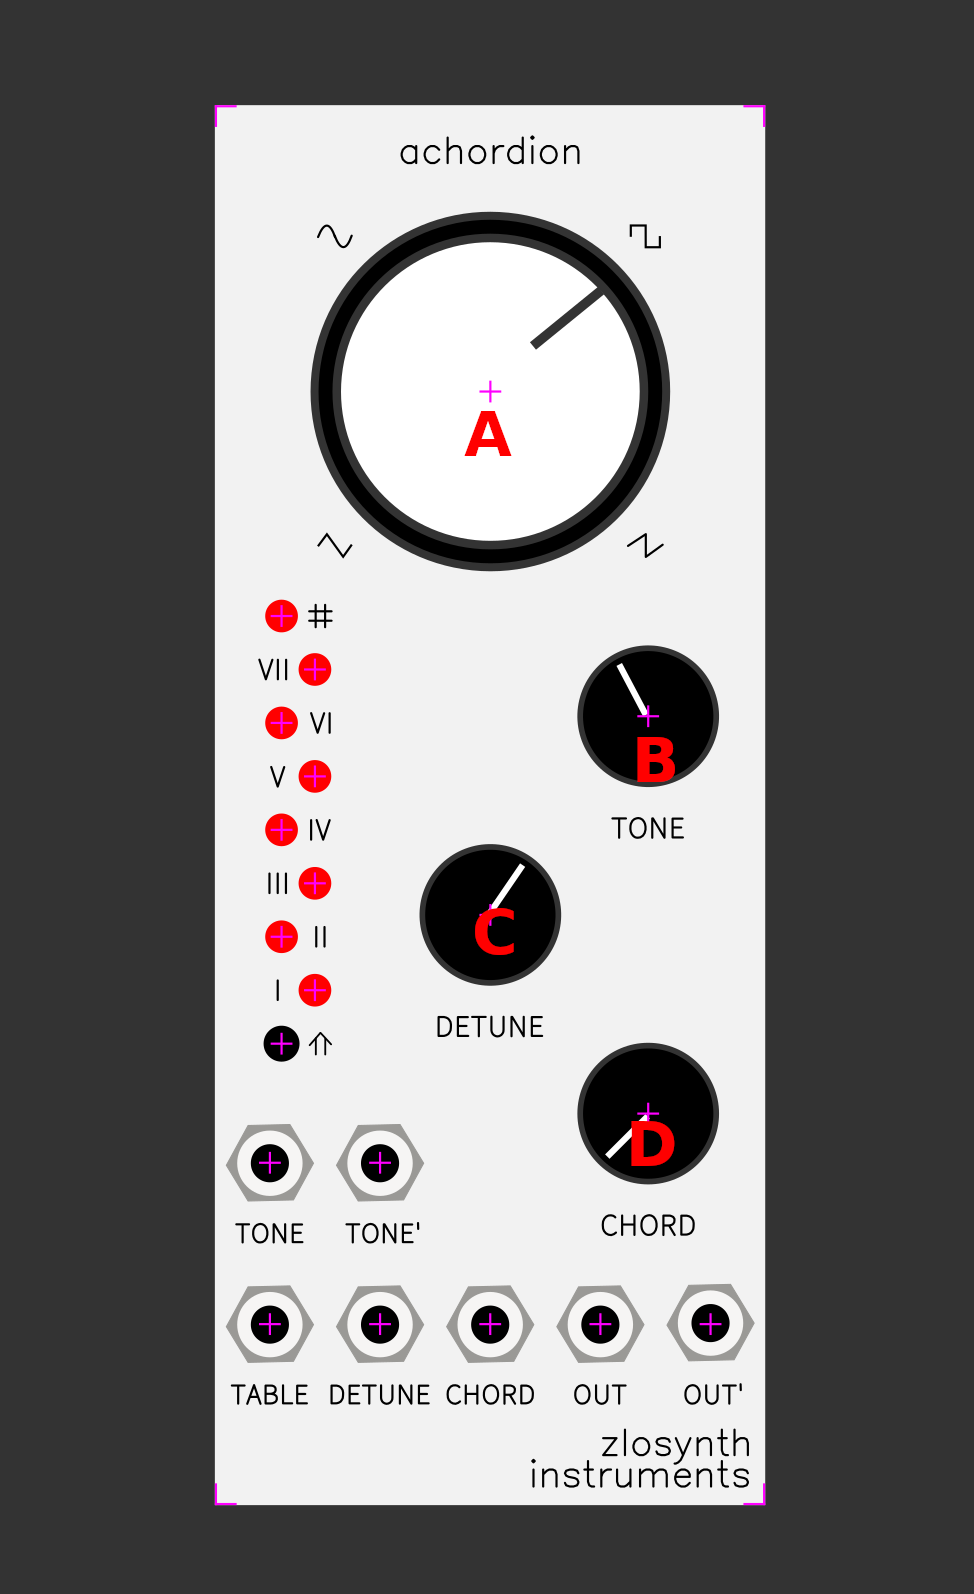
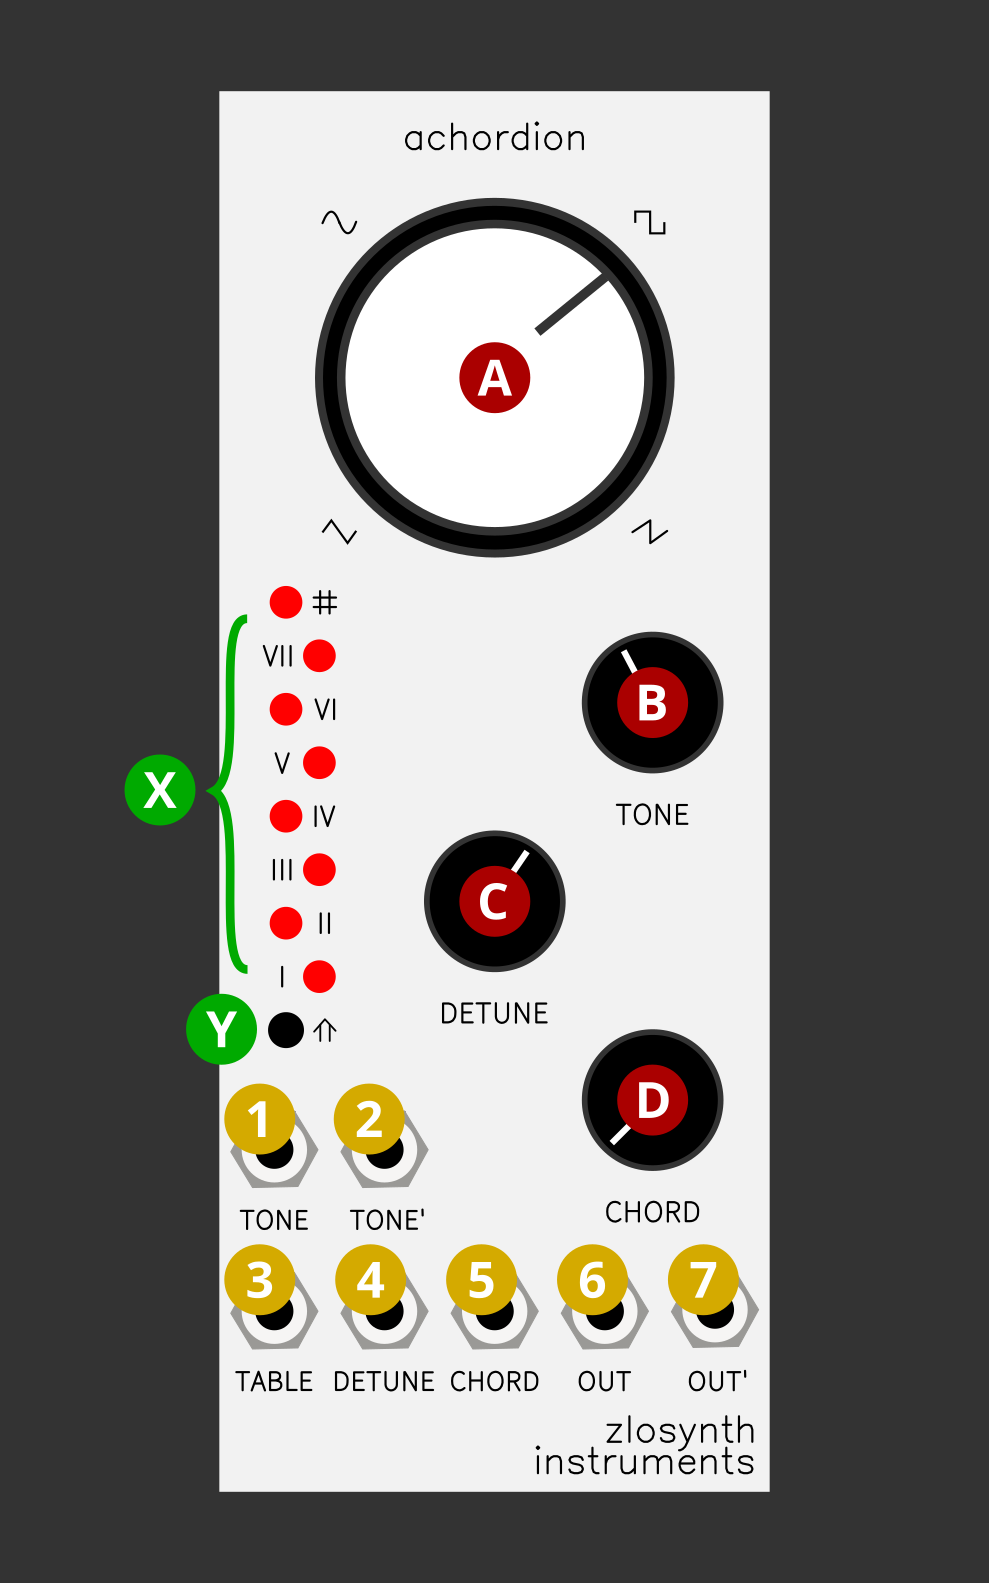
Document the layout

diff --git a/v2/index.html b/v2/index.html
@@ -111,7 +111,35 @@
       <div class="row">
         <div class="left">
           <img src="layout.png" style="width: 100%; border-radius: 10px; margin-top: 30px;">
+        </div>
 
+        <div class="right">
+          <h2>layout</h2>
+          <p>
+            The panel is dominated by a big knob which is used to select
+            the <b>WAVETABLE</b>&nbsp;(<b>A</b>). The other three knobs are used to
+            control the <b>TONE</b>&nbsp;(<b>B</b>), <b>DETUNE</b>&nbsp;(<b>C</b>)
+            and <b>CHORD</b>&nbsp;(<b>D</b>).
+          </p>
+          <p>
+            On the left side, there is a column of <b>LED diodes</b>&nbsp;(<b>X</b>) that
+            are used as a display showing currently controlled parameters. This
+            is meant to visualize chords, scales and more.
+          </p>
+          <p>
+            Below the LEDs, there is a <b>button</b>&nbsp;(<b>Y</b>) that allows access to
+            alternative parameters of each of the knobs.
+          </p>
+          <p>
+            The jacks <b>1</b> through <b>5</b> on the bottom are used as
+            <b>CV inputs</b>. Jacks <b>6</b> and <b>7</b> are <b>audio
+            outputs</b>.
+          </p>
+        </div>
+      </div>
+
+      <div class="row">
+        <div class="left">
           <h2>wavetables</h2>
           <p>
             TODO

diff --git a/v2/styles.css b/v2/styles.css
@@ -3,6 +3,10 @@ body {
   height: 100%;
 }
 
+b {
+  font-weight: 600;
+}
+
 header {
   background: #222;
   height: 120px;
